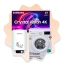
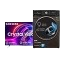
add img in category navbar

diff --git a/app/categories/categories.tsx b/app/categories/categories.tsx
@@ -4,48 +4,66 @@ import Link from "next/link";
 
 const categories = [
   {
-    title: "Top Offer",
-    image: "/category/offer1.png",
-    alt: "Top Offer",
-    slug: "top-offer",
+    title: "Grocery",
+    image: "/category/Grocery.png",
+    alt: "Grocery",
+    slug: "grocery-supermart-store",
   },
   {
-    title: "Mobiles & Tablets",
-    image: "/category/mobile1.png",
-    alt: "Mobiles & Tablets",
-    slug: "mobilesTablets",
-  },
-  {
-    title: "TVs & Appliances",
-    image: "/category/TVs&Appliances1.png",
-    alt: "TVs & Appliances",
-    slug: "tvs-appliances",
-  },
-  {
-    title: "Home & Kitchen",
-    image: "/category/Home1.png",
-    alt: "Home & Kitchen",
-    slug: "home-kitchen",
-  },
-  {
-    title: "Beauty",
-    image: "/category/beauty1.png",
-    alt: "Beauty",
-    slug: "beauty",
+    title: "Mobiles",
+    image: "/category/phone.png",
+    alt: "Mobiles",
+    slug: "mobile-phones-store",
   },
   {
     title: "Fashion",
-    image: "/category/fashion1.png",
+    image: "/category/fashion.png",
     alt: "Fashion",
     slug: "fashion",
+  },
+  {
+    title: "Electronics",
+    image: "/category/Electronics.png",
+    alt: "Electronics",
+    slug: "electronics",
+  },
+  {
+    title: "Home & Furniture",
+    image: "/category/Furniture.png",
+    alt: "Home & Furniture",
+    slug: "home-furniture",
+  },
+  {
+    title: "Appliances",
+    image: "/category/TVs&Appliances.png",
+    alt: "Appliances",
+    slug: "tvs-and-appliances-new-clp-store",
+  },
+  {
+    title: "Travel",
+    image: "/category/travels.png",
+    alt: "Travel",
+    slug: "travel/flights",
+  },
+  {
+    title: "Beauty, Toys & More",
+    image: "/category/toy.png",
+    alt: "Beauty, Toys & More",
+    slug: "beauty-toys-more",
+  },
+  {
+    title: "Two Wheelers",
+    image: "/category/two-wheeler.png",
+    alt: "Two Wheelers",
+    slug: "two-wheelers",
   },
 ];
 
 const Categories: React.FC = () => {
   return (
-    <div className="bg-gray-100 px-4 py-2 md:py-3 mt-2 sm:max-w-screen-sm md:max-w-screen-md lg:max-w-screen-xl mx-auto">
+    <div className="bg-gray-50 px-4 py-2 md:py-3 mt-2 sm:max-w-screen-sm md:max-w-screen-md lg:max-w-screen-xl mx-auto ">
       {/* Desktop View */}
-      <div className="hidden md:flex items-center justify-between space-x-6">
+      <div className="hidden md:flex items-center justify-between gap-2 overflow-x-auto scrollbar-hide">
         {categories.map((category, index) => (
           <div key={index} className="flex items-center flex-col">
             <Link href={`/categories/${category.slug}`}>
@@ -57,7 +75,7 @@ const Categories: React.FC = () => {
                   objectFit="cover"
                 />
               </div>
-              <span className="ml-2 text-black md:text-sm">
+              <span className="ml-2 text-black font-semibold sm:text-xs md:text-sm lg:text-md">
                 {category.title}
               </span>
             </Link>
@@ -66,8 +84,7 @@ const Categories: React.FC = () => {
       </div>
 
       {/* Mobile View */}
-
-      <div className="md:hidden justify-between flex overflow-x-auto  items-center mt-4 scrollbar-hide">
+      <div className="md:hidden justify-between flex overflow-x-auto items-center mt-4 scrollbar-hide">
         {categories.map((category, index) => (
           <div
             key={index}
@@ -84,7 +101,7 @@ const Categories: React.FC = () => {
                     className="rounded-full"
                   />
                 </div>
-                <span className="mt-1 text-black text-center text-xs ">
+                <span className="mt-1 text-black font-semibold text-center text-xs">
                   {category.title}
                 </span>
               </div>

diff --git a/app/layout.tsx b/app/layout.tsx
@@ -30,9 +30,9 @@ export default function RootLayout({
           </div>
         ) : pathname === "/productDetails" ? (
           <div>
-  <Navbar />
-  <Categories />
-<ProductDetails/>
+            <Navbar />
+            <Categories />
+            <ProductDetails />
           </div>
         ) : (
           <div>
@@ -46,3 +46,70 @@ export default function RootLayout({
     </html>
   );
 }
+// "use client";
+// import { useState, useEffect } from "react";
+// import { Inter } from "next/font/google";
+// import "./globals.css";
+// import { usePathname } from "next/navigation";
+// import Login from "./login/page";
+// import Navbar from "./navbar/Navbar";
+// import Categories from "./categories/categories";
+// import CartPage from "./cart/page";
+// import Banner from "./banner/page";
+// import ProductDetails from "./productDetails/page";
+// import Loader from "@/components/loader";
+
+// const inter = Inter({ subsets: ["latin"] });
+
+// export default function RootLayout({
+//   children,
+// }: Readonly<{
+//   children: React.ReactNode;
+// }>) {
+//   const pathname = usePathname();
+//   const [isLoading, setIsLoading] = useState(true); // State to manage loading
+
+//   // Simulate loading delay with setTimeout (you would replace this with actual data fetching)
+//   useEffect(() => {
+//     setTimeout(() => {
+//       setIsLoading(false);
+//     }, 1000); // Simulating 2 seconds loading time
+//   }, []);
+
+//   return (
+//     <html lang="en">
+//       <body className={inter.className}>
+//         {/* Conditional rendering based on pathname and loading state */}
+//         {isLoading ? (
+// <Loader/>
+//         ) : (
+//           <>
+//             {pathname === "/login" ? (
+//               <div>
+//                 <Login />
+//               </div>
+//             ) : pathname === "/cart" ? (
+//               <div>
+//                 <Navbar />
+//                 <CartPage />
+//               </div>
+//             ) : pathname === "/productDetails" ? (
+//               <div>
+//                 <Navbar />
+//                 <Categories />
+//                 <ProductDetails />
+//               </div>
+//             ) : (
+//               <div>
+//                 <Navbar />
+//                 <Categories />
+//                 <Banner />
+//                 {children}
+//               </div>
+//             )}
+//           </>
+//         )}
+//       </body>
+//     </html>
+//   );
+// }

diff --git a/app/productDetails/page.tsx b/app/productDetails/page.tsx
@@ -71,7 +71,7 @@ const ProductDetails: React.FC = () => {
   return (
     <div className="px-4 py-8 md:py-3 mt-8 sm:max-w-screen-sm md:max-w-screen-md lg:max-w-screen-xl mx-auto">
     <div className="text-center md:text-left">
-      <h1 className="text-sm sm:text-xl  md:text-2xl lg:text-3xl  font-bold mb-4">Product Details</h1>
+      <h1 className="text-md sm:text-md  md:text-xl lg:text-2xl  font-bold mb-4">Product Details</h1>
     </div>
     <div className="grid grid-cols-1 md:grid-cols-2 gap-2">
       {/* Product Image Section */}
@@ -99,8 +99,8 @@ const ProductDetails: React.FC = () => {
       {/* Product Details Section */}
       <div className="md:p-8">
         <i className="fa-solid fa-share"></i>
-        <h2 className="text-xl sm:text-xl  md:text-2xl lg:text-3xl  font-bold mb-4">{product.title}</h2>
-        <p className="text-gray-700 text-xl  sm:text-xs  md:text-xl lg:text-3x  mb-2">{product.description}</p>
+        <h2 className="text-xl sm:text-md  md:text-xl lg:text-2xl  font-bold mb-4">{product.title}</h2>
+        <p className="text-gray-700 text-xl  sm:text-sm md:text-md lg:text-xl  mb-2">{product.description}</p>
         <p className="text-green-600 font-semibold mb-4">{product.offer}</p>
         <p className="text-gray-800 font-semibold mb-4">
           Special Price: ₹{product.price}
@@ -123,13 +123,13 @@ const ProductDetails: React.FC = () => {
         {/* Available Offers */}
         <div className="mb-4">
           <h3 className="text-lg font-semibold mb-2">Available Offers</h3>
-          <ul className="list-disc list-inside text-gray-600">
+          <ul className="list-disc list-inside text-gray-600 ">
             {product.availableOffers.map((offer, index) => (
               <li key={index}>
-                <span className="font-bold text-black-500 text-[0.875rem]">
+                <span className="font-bold text-black-500 text-md ">
                   Bank Offer{" "}
                 </span>{" "}
-                <span className="text-[0.785rem]">{offer}</span>
+                <span className="text-md ">{offer}</span>
               </li>
             ))}
           </ul>

diff --git a/components/card.tsx b/components/card.tsx
@@ -52,19 +52,19 @@ const Card: React.FC<CardProps> = ({
 
       <div className="p-4">
         <Link href="/productDetails">
-          <h2 className="text-md font-semibold mb-2">
+          <h2 className="text-xl font-semibold mb-2">
             <Link
               href="/productDetails"
-              className="text-gray-700 hover:text-blue-600 whitespace-nowrap overflow-hidden text-ellipsis"
+              className="text-gray-700 hover:text-blue-600 whitespace-nowrap overflow-hidden  text-ellipsis"
             >
               {title || name}
             </Link>
           </h2>
         </Link>
         <Link href="/productDetails">
-          <p className="text-gray-700 mb-2 text-sm">{category}</p>
+          <p className="text-gray-700 mb-2 text-md">{category}</p>
           {description && (
-            <p className="text-sm text-gray-700 whitespace-nowrap overflow-hidden text-ellipsis">
+            <p className="text-md text-gray-700 whitespace-nowrap overflow-hidden text-ellipsis">
               {description}
             </p>
           )}

diff --git a/app/cart/page.tsx b/app/cart/page.tsx
@@ -221,7 +221,7 @@ const CartPage: React.FC = () => {
                     className="text-center"
                   />
                 </span>
-                <div className="text-md font-bold text-[#878787] sm:text-sm  md:text-xl lg:text-2xl">
+                <div className="text-md font-bold text-[#878787] sm:text-xs  md:text-sm lg:text-md">
                   <p className="whitespace-normal">
                     Safe and Secure Payments. Easy returns.
                   </p>

diff --git a/components/loader.tsx b/components/loader.tsx
@@ -1,0 +1,20 @@
+import React from 'react';
+
+const Loader = () => {
+  return (
+    <div>
+      <div className="flex justify-center items-center min-h-screen ">
+          <img
+              src="/loader.gif"
+              alt="Loading..."
+              className="w-[80px] h-[80px]"
+            />
+            <span>
+              <text>Loading...</text>
+            </span>
+          </div>
+    </div>
+  );
+}
+
+export default Loader;
